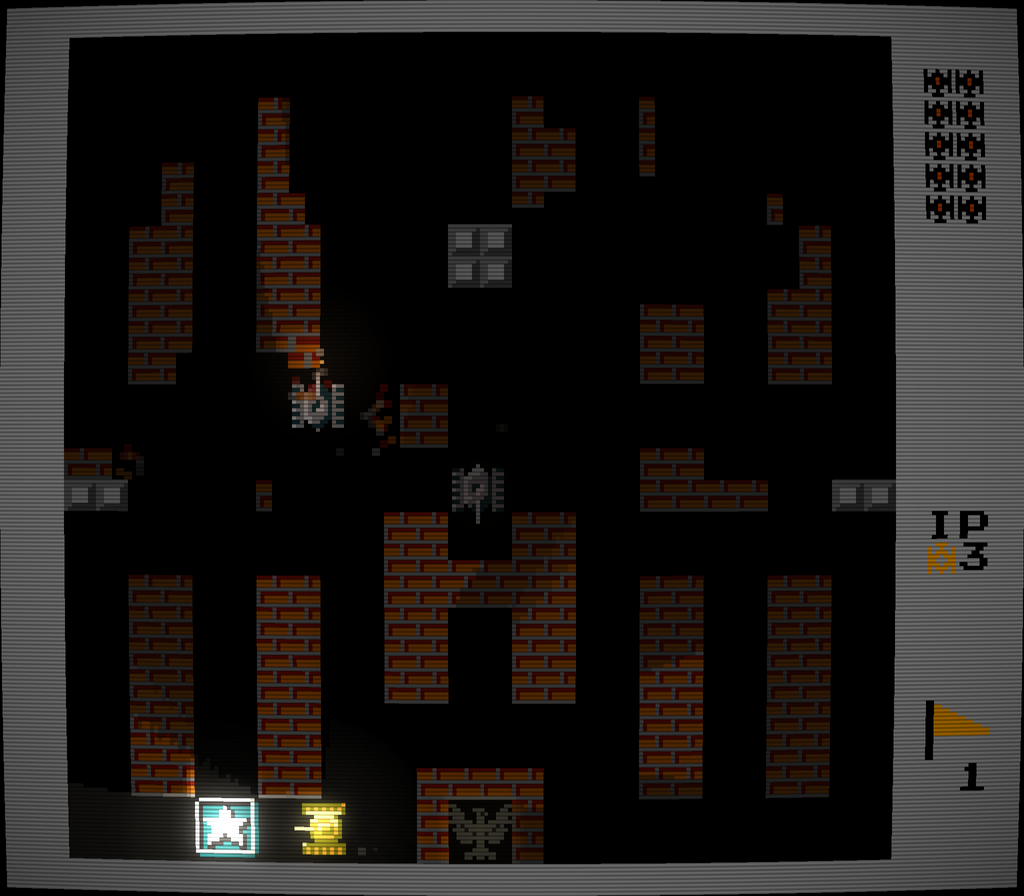
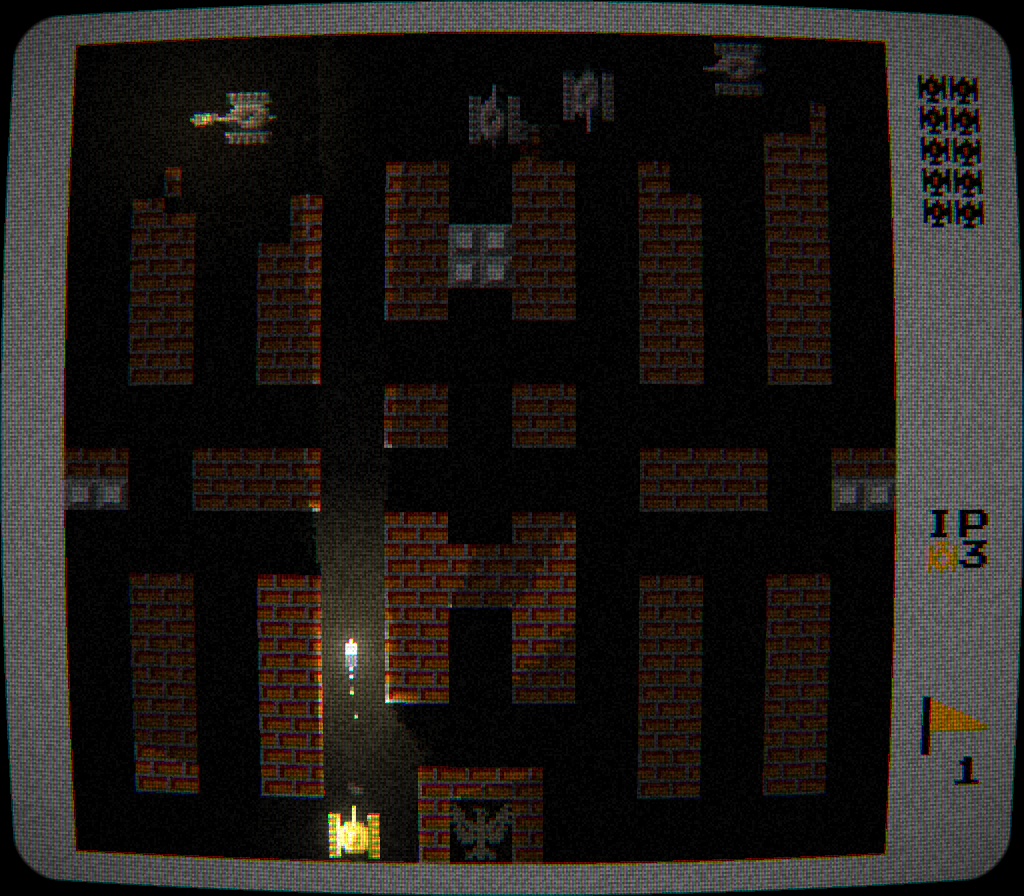
docs: refresh desktop and mobile screenshots with tube TV look

diff --git a/README.md b/README.md
@@ -6,7 +6,7 @@ A modern remake and tribute to the classic arcade game Battle City (NES, 1985), 
 
 [![tnk9x gameplay with normal graphics](.github/screenshot-desktop.png)](https://shpaker.github.io/tnk9x/)
 
-*Stage 1 with normal graphics: headlight vision, lit bricks and steel, CRT filter.*
+*Stage 1 with normal graphics: headlight vision, bullet tracers, lit bricks and steel, tube TV filter.*
 
 [![tnk9x running in a mobile browser](.github/screenshot-mobile.png)](https://shpaker.github.io/tnk9x/)
 
@@ -23,6 +23,7 @@ A modern remake and tribute to the classic arcade game Battle City (NES, 1985), 
 - Bullets and destructible terrain with incremental brick chipping: each hit shaves a half-tile slab, reinforced bullets break tiles whole
 - All five surface types (brick, steel, forest, water, ice) with ice sliding and water blocking
 - Lua-scripted enemies of four types; each map file sets its enemy waves (tank order, pause, start condition: now, left<=N, clear), bonus carriers and on-field limit, see [assets/levels/README.md](assets/levels/README.md)
+  - The armored tank flashes between its normal and a tinted sprite as in the NES original; the tint shows the armor left (red, yellow, green)
 - Weighted enemy spawn point choice: blocked points are skipped, the last used point and points near a player are picked less often
 - Enemy AI with per-type personalities and difficulty scaling by stage:
   - NES-style targeting: roam, then hunt the player, then head for the HQ
